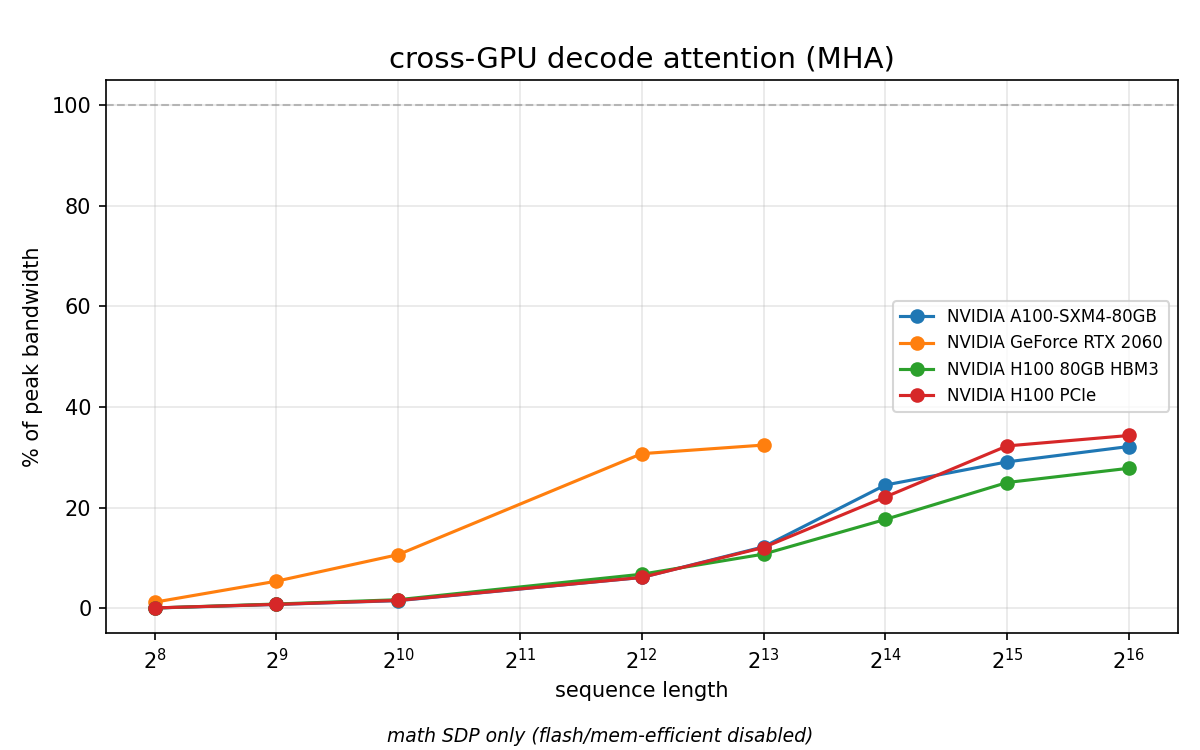
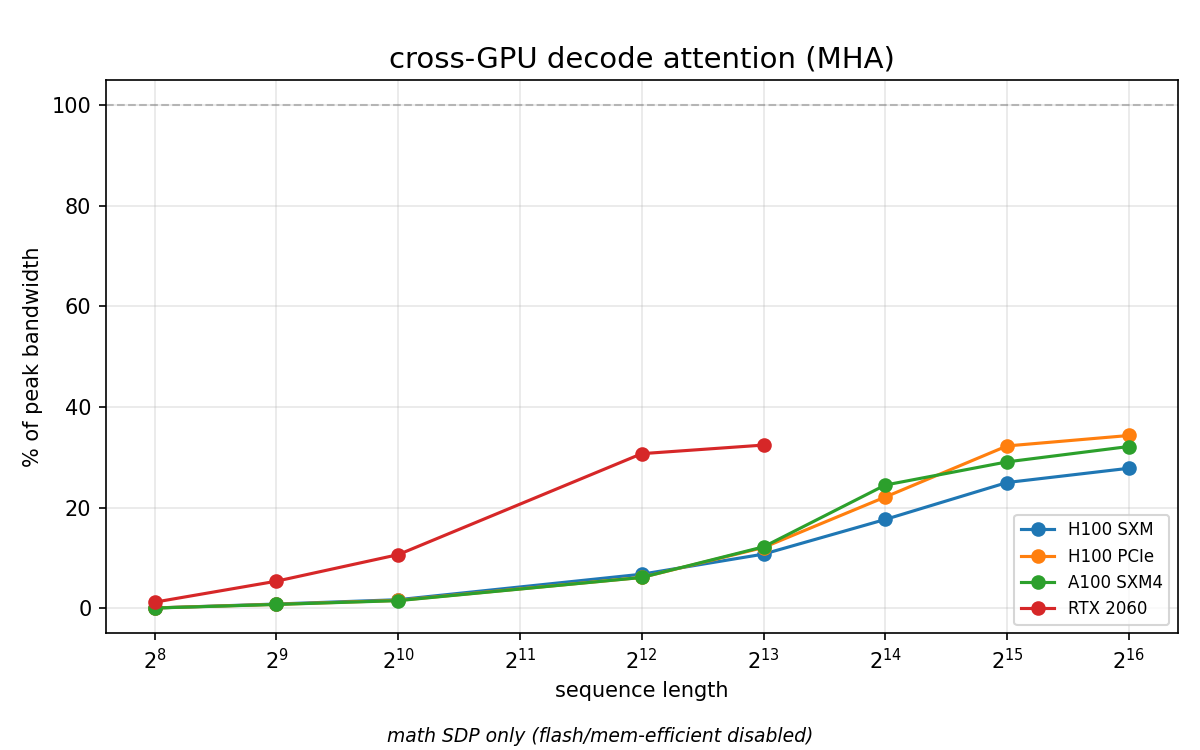
compare: clean up legend names and ordering

diff --git a/compare.py b/compare.py
@@ -28,12 +28,50 @@ PEAK_BW = [
 	("l4",               300),	# 192-bit GDDR6
 ]
 
+# Display names and legend order (top to bottom).
+# Matched against gpu column same as PEAK_BW.
+GPU_ORDER = [
+	("h100 80gb hbm3",	"H100 SXM"),
+	("h100 nvl",		"H100 NVL"),
+	("h100 pcie",		"H100 PCIe"),
+	("a100-sxm",		"A100 SXM4"),
+	("a100-pcie-80",	"A100 PCIe 80GB"),
+	("a100-pcie-40",	"A100 PCIe 40GB"),
+	("a100",		"A100"),
+	("a10g",		"A10G"),
+	("rtx 4090",		"RTX 4090"),
+	("rtx 4080",		"RTX 4080"),
+	("rtx 4070",		"RTX 4070"),
+	("rtx 3090",		"RTX 3090"),
+	("rtx 3080",		"RTX 3080"),
+	("rtx 3070",		"RTX 3070"),
+	("rtx 3060",		"RTX 3060"),
+	("rtx 2060",		"RTX 2060"),
+	("l40s",		"L40S"),
+	("l40",			"L40"),
+	("l4",			"L4"),
+]
+
 def match_peak(gpu_name):
 	low = gpu_name.lower()
 	for substr, bw in PEAK_BW:
 		if substr in low:
 			return bw
 	return None
+
+def display_name(gpu_name):
+	low = gpu_name.lower()
+	for substr, name in GPU_ORDER:
+		if substr in low:
+			return name
+	return gpu_name
+
+def gpu_sort_key(gpu_name):
+	low = gpu_name.lower()
+	for i, (substr, _) in enumerate(GPU_ORDER):
+		if substr in low:
+			return i
+	return len(GPU_ORDER)
 
 def load_csvs(pattern="results/*.csv"):
 	files = sorted(glob.glob(pattern))
@@ -64,20 +102,23 @@ def plot(gpus, outpath="results/compare.png"):
 	fig, axes = plt.subplots(1, 3, figsize=(15, 5))
 	colors = plt.rcParams["axes.prop_cycle"].by_key()["color"]
 
-	for ci, (gpu, rows) in enumerate(sorted(mha.items())):
+	ordered = sorted(mha.keys(), key=gpu_sort_key)
+	for ci, gpu in enumerate(ordered):
+		rows = mha[gpu]
 		xs = sorted(int(r["S"]) for r in rows)
 		by_s = {int(r["S"]): r for r in rows}
 		color = colors[ci % len(colors)]
 		peak = match_peak(gpu)
+		label = display_name(gpu)
 
 		ms = [float(by_s[s]["ms_tok"]) for s in xs]
 		bw = [float(by_s[s]["bw_gbs"]) for s in xs]
 
 		# panel 0: ms/tok
-		axes[0].plot(xs, ms, "o-", label=gpu, color=color)
+		axes[0].plot(xs, ms, "o-", label=label, color=color)
 
 		# panel 1: absolute bandwidth
-		axes[1].plot(xs, bw, "o-", label=gpu, color=color)
+		axes[1].plot(xs, bw, "o-", label=label, color=color)
 		if peak:
 			axes[1].axhline(peak, linestyle="--", color=color,
 					alpha=0.5, linewidth=1,
@@ -86,7 +127,7 @@ def plot(gpus, outpath="results/compare.png"):
 		# panel 2: % of peak bandwidth
 		if peak:
 			pct = [b / peak * 100 for b in bw]
-			axes[2].plot(xs, pct, "o-", label=gpu, color=color)
+			axes[2].plot(xs, pct, "o-", label=label, color=color)
 
 	# panel 2: 100% reference line
 	axes[2].axhline(100, linestyle="--", color="grey",
@@ -125,7 +166,9 @@ def plot_pct(gpus, outpath="results/compare-pct.png"):
 	fig, ax = plt.subplots(figsize=(8, 5))
 	colors = plt.rcParams["axes.prop_cycle"].by_key()["color"]
 
-	for ci, (gpu, rows) in enumerate(sorted(mha.items())):
+	ordered = sorted(mha.keys(), key=gpu_sort_key)
+	for ci, gpu in enumerate(ordered):
+		rows = mha[gpu]
 		xs = sorted(int(r["S"]) for r in rows)
 		by_s = {int(r["S"]): r for r in rows}
 		color = colors[ci % len(colors)]
@@ -134,7 +177,7 @@ def plot_pct(gpus, outpath="results/compare-pct.png"):
 			continue
 		bw = [float(by_s[s]["bw_gbs"]) for s in xs]
 		pct = [b / peak * 100 for b in bw]
-		ax.plot(xs, pct, "o-", label=gpu, color=color)
+		ax.plot(xs, pct, "o-", label=display_name(gpu), color=color)
 
 	ax.axhline(100, linestyle="--", color="grey",
 		   alpha=0.5, linewidth=1)
